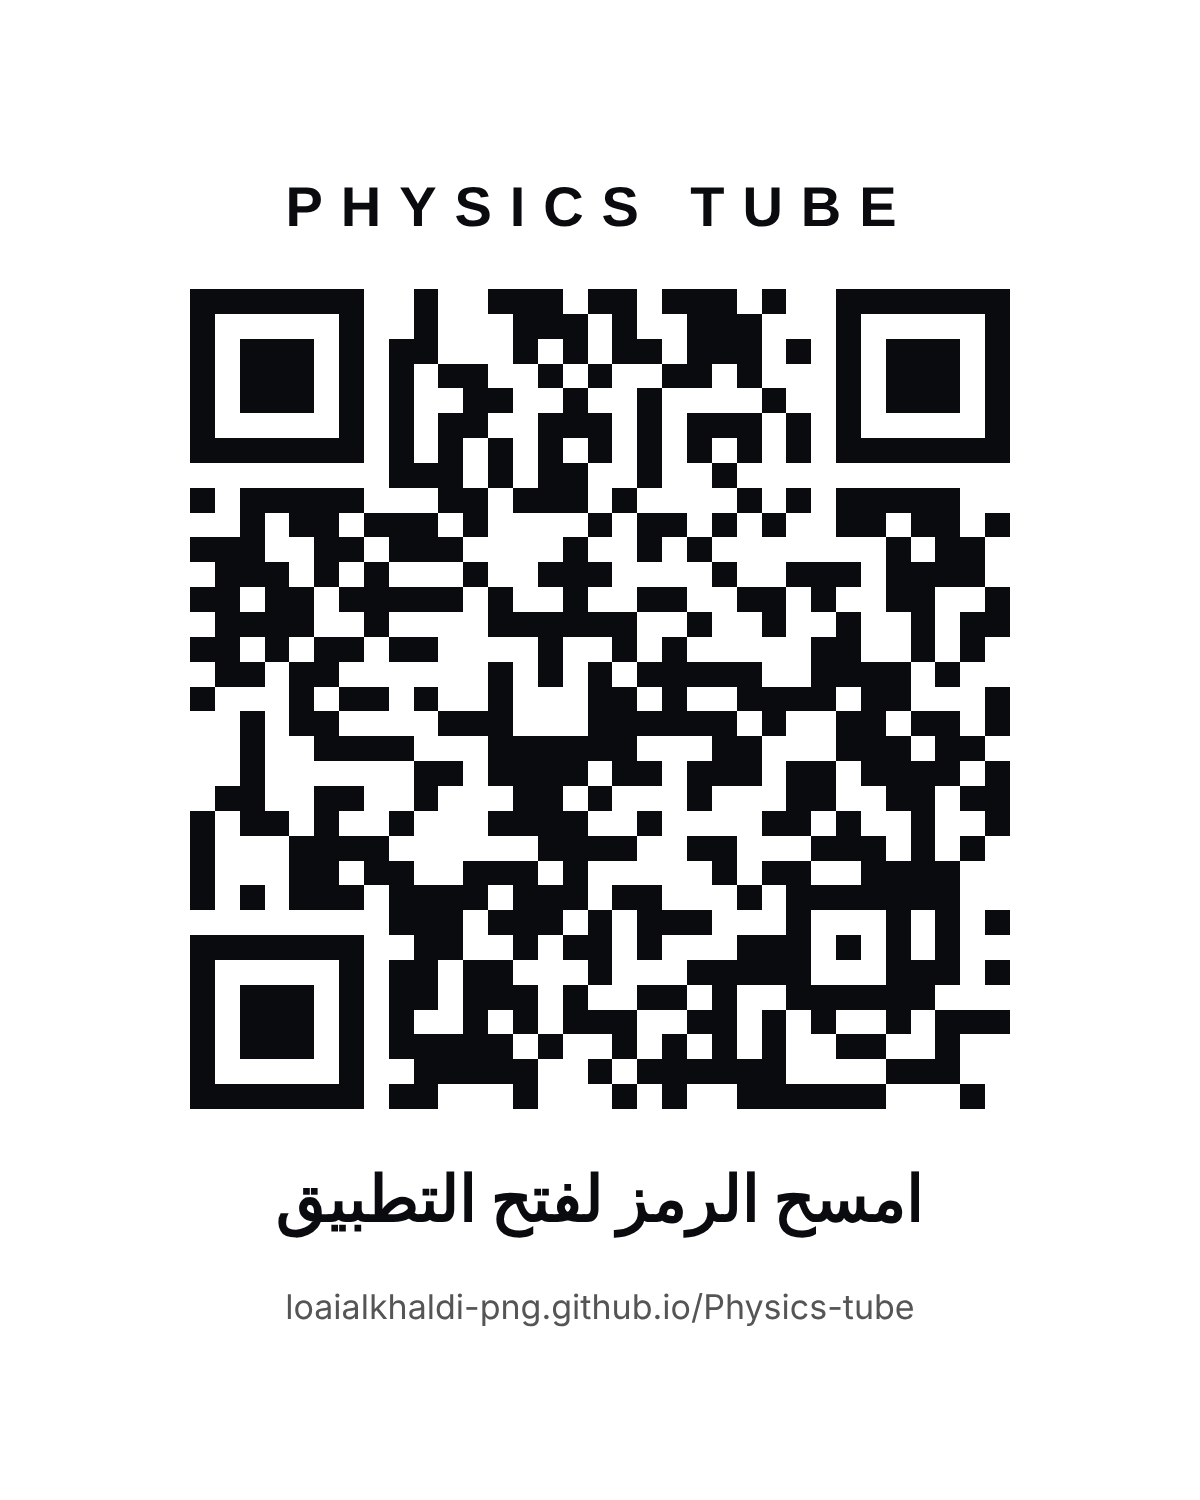
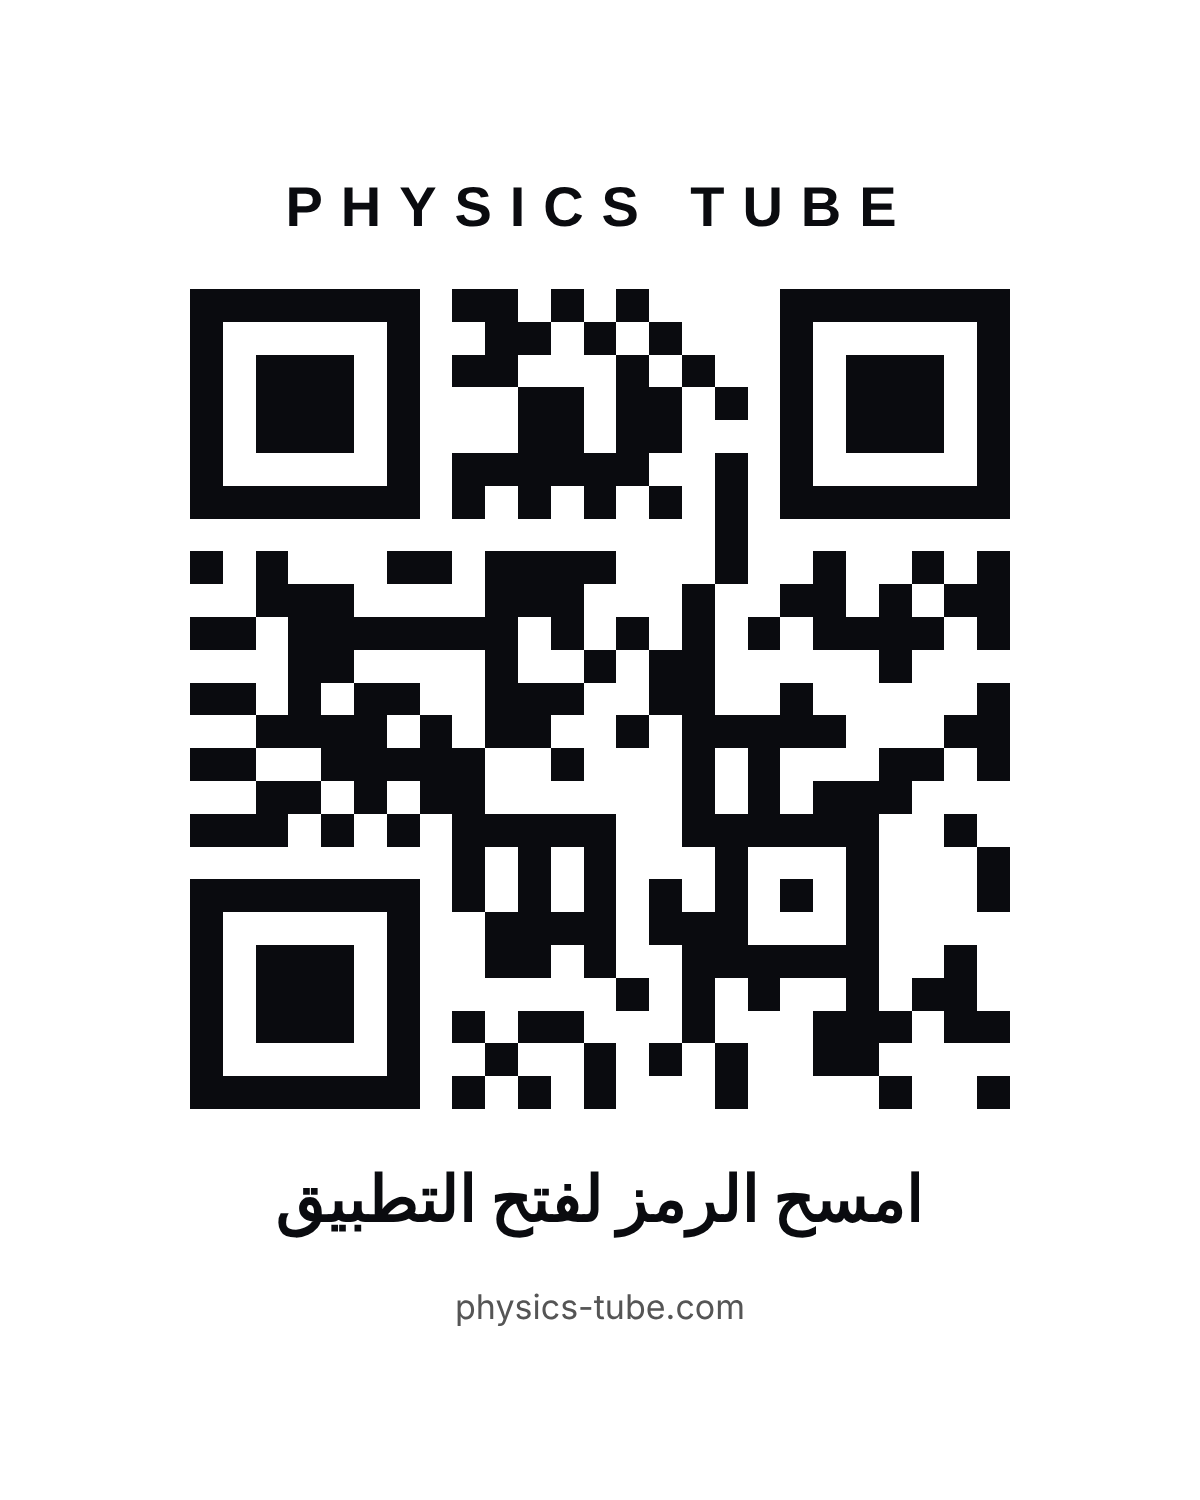
Move the app to physics-tube.com
Adds the Pages CNAME, points the share link at the new domain and
regenerates the QR code, poster and printable QR card.

Claude-Session: https://claude.ai/code/session_01CPW6Qk2LecSJvgwWLX7snx

Changed region(s): [[0.1542, 0.184, 0.8633, 0.7667], [0.2467, 0.8587, 0.7708, 0.8893]]

diff --git a/index.html b/index.html
@@ -1146,8 +1146,8 @@ function sheet(html) {
 }
 const closeSheet = () => { layer.innerHTML = ''; };
 
-const APP_URL = 'https://loaialkhaldi-png.github.io/Physics-tube/';
-const QR_SVG = `<svg class="qr" aria-label="رمز QR لرابط التطبيق" xmlns="http://www.w3.org/2000/svg" viewBox="0 0 33 33" shape-rendering="crispEdges"><path fill="#FFFFFF" d="M0 0h33v33H0z"/><path stroke="#0A0B0F" d="M0 0.5h7m2 0h1m2 0h3m1 0h2m1 0h3m1 0h1m2 0h7M0 1.5h1m5 0h1m2 0h1m3 0h3m1 0h1m2 0h3m3 0h1m5 0h1M0 2.5h1m1 0h3m1 0h1m1 0h2m3 0h1m1 0h1m1 0h2m1 0h3m1 0h1m1 0h1m1 0h3m1 0h1M0 3.5h1m1 0h3m1 0h1m1 0h1m1 0h2m2 0h1m1 0h1m2 0h2m1 0h1m3 0h1m1 0h3m1 0h1M0 4.5h1m1 0h3m1 0h1m1 0h1m2 0h2m2 0h1m2 0h1m4 0h1m2 0h1m1 0h3m1 0h1M0 5.5h1m5 0h1m1 0h1m1 0h2m2 0h3m1 0h1m1 0h3m1 0h1m1 0h1m5 0h1M0 6.5h7m1 0h1m1 0h1m1 0h1m1 0h1m1 0h1m1 0h1m1 0h1m1 0h1m1 0h1m1 0h7M8 7.5h3m1 0h1m1 0h2m2 0h1m2 0h1M0 8.5h1m1 0h5m3 0h2m1 0h3m1 0h1m4 0h1m1 0h1m1 0h5M2 9.5h1m1 0h2m1 0h3m1 0h1m4 0h1m1 0h2m1 0h1m1 0h1m2 0h2m1 0h2m1 0h1M0 10.5h3m2 0h2m1 0h3m4 0h1m2 0h1m1 0h1m7 0h1m1 0h2M1 11.5h3m1 0h1m1 0h1m3 0h1m2 0h3m4 0h1m2 0h3m1 0h4M0 12.5h2m1 0h2m1 0h5m1 0h1m2 0h1m2 0h2m2 0h2m1 0h1m2 0h2m2 0h1M1 13.5h4m2 0h1m4 0h6m2 0h1m2 0h1m2 0h1m2 0h1m1 0h2M0 14.5h2m1 0h1m1 0h2m1 0h2m4 0h1m2 0h1m1 0h1m5 0h2m2 0h1m1 0h1M1 15.5h2m1 0h2m6 0h1m1 0h1m1 0h1m1 0h5m2 0h4m1 0h1M0 16.5h1m3 0h1m1 0h2m1 0h1m2 0h1m3 0h2m1 0h1m2 0h4m1 0h2m3 0h1M2 17.5h1m1 0h2m4 0h3m3 0h6m1 0h1m2 0h2m1 0h2m1 0h1M2 18.5h1m2 0h4m3 0h6m3 0h2m3 0h3m1 0h2M2 19.5h1m6 0h2m1 0h4m1 0h2m1 0h3m1 0h2m1 0h4m1 0h1M1 20.5h2m2 0h2m2 0h1m3 0h2m1 0h1m3 0h1m3 0h2m2 0h2m1 0h2M0 21.5h1m1 0h2m1 0h1m2 0h1m3 0h4m2 0h1m4 0h2m1 0h1m2 0h1m2 0h1M0 22.5h1m3 0h4m6 0h4m2 0h2m3 0h3m1 0h1m1 0h1M0 23.5h1m3 0h2m1 0h2m2 0h3m1 0h1m5 0h1m1 0h2m2 0h4M0 24.5h1m1 0h1m1 0h3m1 0h4m1 0h3m1 0h2m3 0h1m1 0h7M8 25.5h3m1 0h3m1 0h1m1 0h3m3 0h1m3 0h1m1 0h1m1 0h1M0 26.5h7m2 0h2m2 0h1m1 0h2m1 0h1m3 0h3m1 0h1m1 0h1m1 0h1M0 27.5h1m5 0h1m1 0h2m1 0h2m3 0h1m3 0h5m3 0h3m1 0h1M0 28.5h1m1 0h3m1 0h1m1 0h2m1 0h3m1 0h1m2 0h2m1 0h1m2 0h6M0 29.5h1m1 0h3m1 0h1m1 0h1m2 0h1m1 0h1m1 0h3m2 0h2m1 0h1m1 0h1m2 0h1m1 0h3M0 30.5h1m1 0h3m1 0h1m1 0h5m1 0h1m2 0h1m1 0h1m1 0h1m1 0h1m2 0h2m2 0h1M0 31.5h1m5 0h1m2 0h5m2 0h1m1 0h6m4 0h3M0 32.5h7m1 0h2m3 0h1m3 0h1m1 0h1m2 0h6m3 0h1"/></svg>`;
+const APP_URL = 'https://physics-tube.com/';
+const QR_SVG = `<svg class="qr" aria-label="رمز QR لرابط التطبيق" xmlns="http://www.w3.org/2000/svg" viewBox="0 0 25 25" shape-rendering="crispEdges"><path fill="#FFFFFF" d="M0 0h25v25H0z"/><path stroke="#0A0B0F" d="M0 0.5h7m1 0h2m1 0h1m1 0h1m4 0h7M0 1.5h1m5 0h1m2 0h2m1 0h1m1 0h1m3 0h1m5 0h1M0 2.5h1m1 0h3m1 0h1m1 0h2m3 0h1m1 0h1m2 0h1m1 0h3m1 0h1M0 3.5h1m1 0h3m1 0h1m3 0h2m1 0h2m1 0h1m1 0h1m1 0h3m1 0h1M0 4.5h1m1 0h3m1 0h1m3 0h2m1 0h2m3 0h1m1 0h3m1 0h1M0 5.5h1m5 0h1m1 0h6m2 0h1m1 0h1m5 0h1M0 6.5h7m1 0h1m1 0h1m1 0h1m1 0h1m1 0h1m1 0h7M16 7.5h1M0 8.5h1m1 0h1m3 0h2m1 0h4m3 0h1m2 0h1m2 0h1m1 0h1M2 9.5h3m4 0h3m3 0h1m2 0h2m1 0h1m1 0h2M0 10.5h2m1 0h7m1 0h1m1 0h1m1 0h1m1 0h1m1 0h4m1 0h1M3 11.5h2m4 0h1m2 0h1m1 0h2m5 0h1M0 12.5h2m1 0h1m1 0h2m2 0h3m2 0h2m2 0h1m5 0h1M2 13.5h4m1 0h1m1 0h2m2 0h1m1 0h5m3 0h2M0 14.5h2m2 0h5m2 0h1m3 0h1m1 0h1m3 0h2m1 0h1M2 15.5h2m1 0h1m1 0h2m6 0h1m1 0h1m1 0h3M0 16.5h3m1 0h1m1 0h1m1 0h5m2 0h6m2 0h1M8 17.5h1m1 0h1m1 0h1m3 0h1m3 0h1m3 0h1M0 18.5h7m1 0h1m1 0h1m1 0h1m1 0h1m1 0h1m1 0h1m1 0h1m3 0h1M0 19.5h1m5 0h1m2 0h4m1 0h3m3 0h1M0 20.5h1m1 0h3m1 0h1m2 0h2m1 0h1m2 0h6m2 0h1M0 21.5h1m1 0h3m1 0h1m6 0h1m1 0h1m1 0h1m2 0h1m1 0h2M0 22.5h1m1 0h3m1 0h1m1 0h1m1 0h2m3 0h1m3 0h3m1 0h2M0 23.5h1m5 0h1m2 0h1m2 0h1m1 0h1m1 0h1m2 0h2M0 24.5h7m1 0h1m1 0h1m1 0h1m3 0h1m4 0h1m2 0h1"/></svg>`;
 function shareSheet() {
   sheet(`<h2>شارك التطبيق</h2><p>امسح الرمز بكاميرا الجوال، أو أرسل الرابط لزملائك.</p>
     <div class="qr-box">${QR_SVG}</div>

diff --git a/sw.js b/sw.js
@@ -1,5 +1,5 @@
 // يحفظ ملفات التطبيق على الجهاز ليفتح بسرعة ويعمل بدون إنترنت
-const CACHE = 'physics-tube-v9';
+const CACHE = 'physics-tube-v10';
 const SHELL = ['./', 'index.html', 'manifest.webmanifest', 'icons/icon-192.png', 'icons/apple-touch-icon.png'];
 
 self.addEventListener('install', e => {
